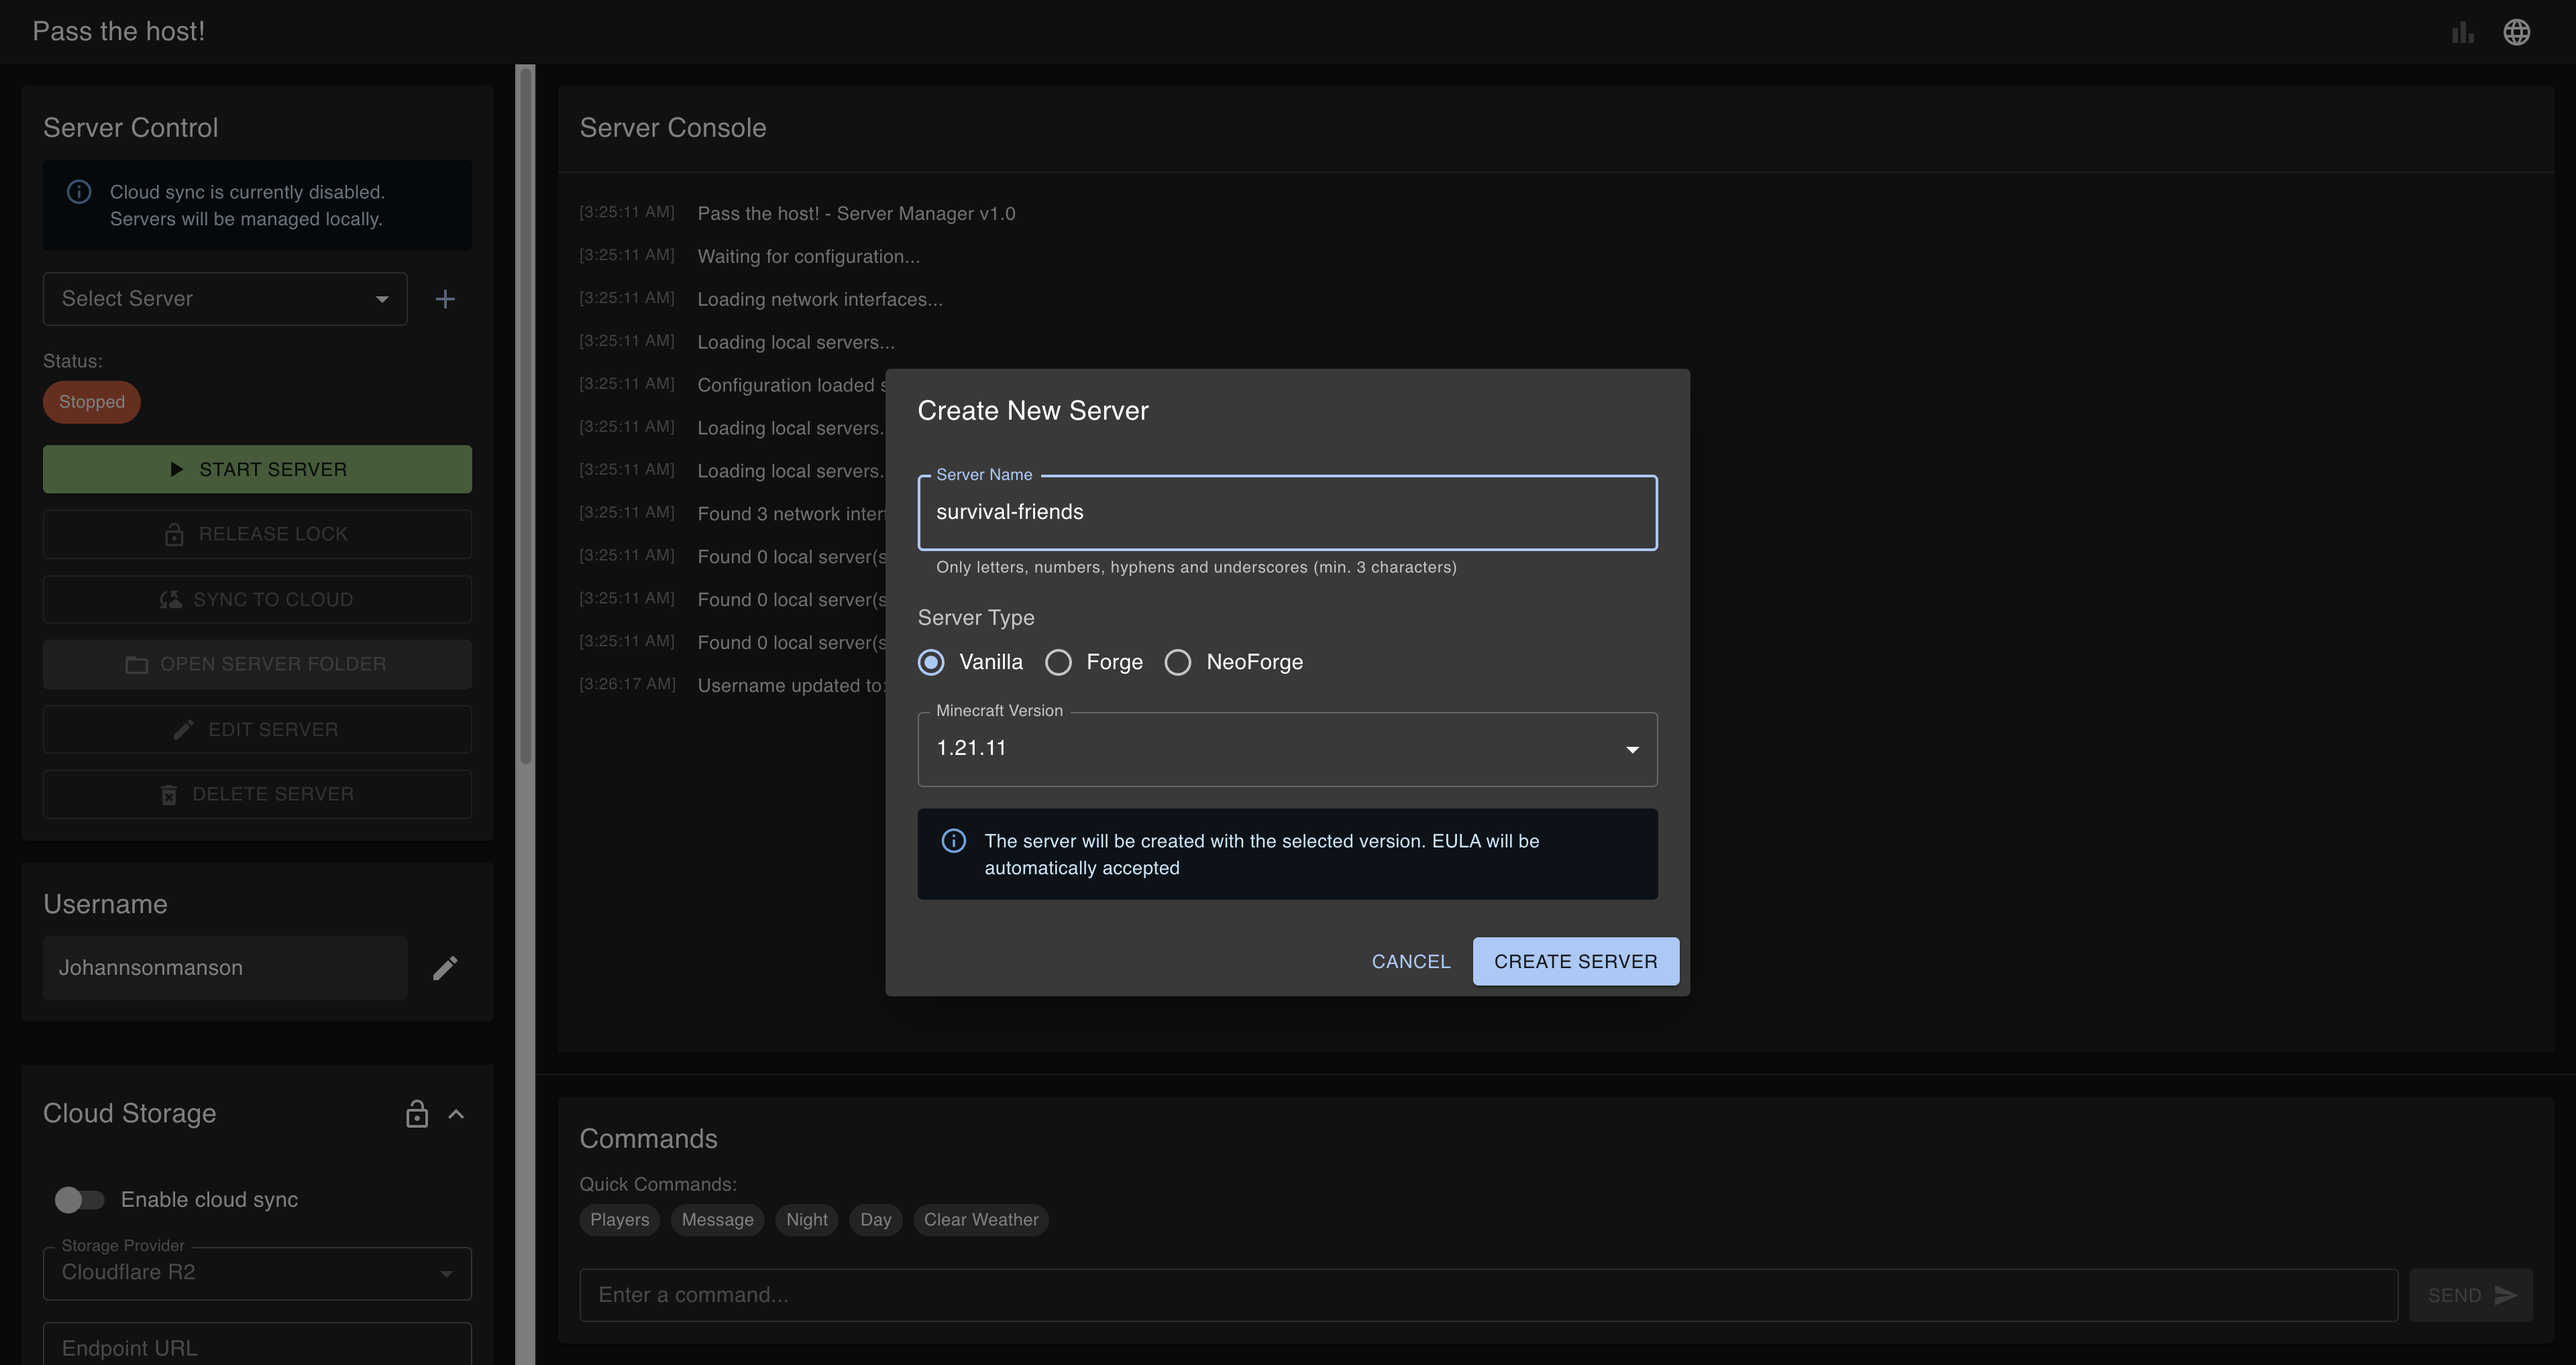
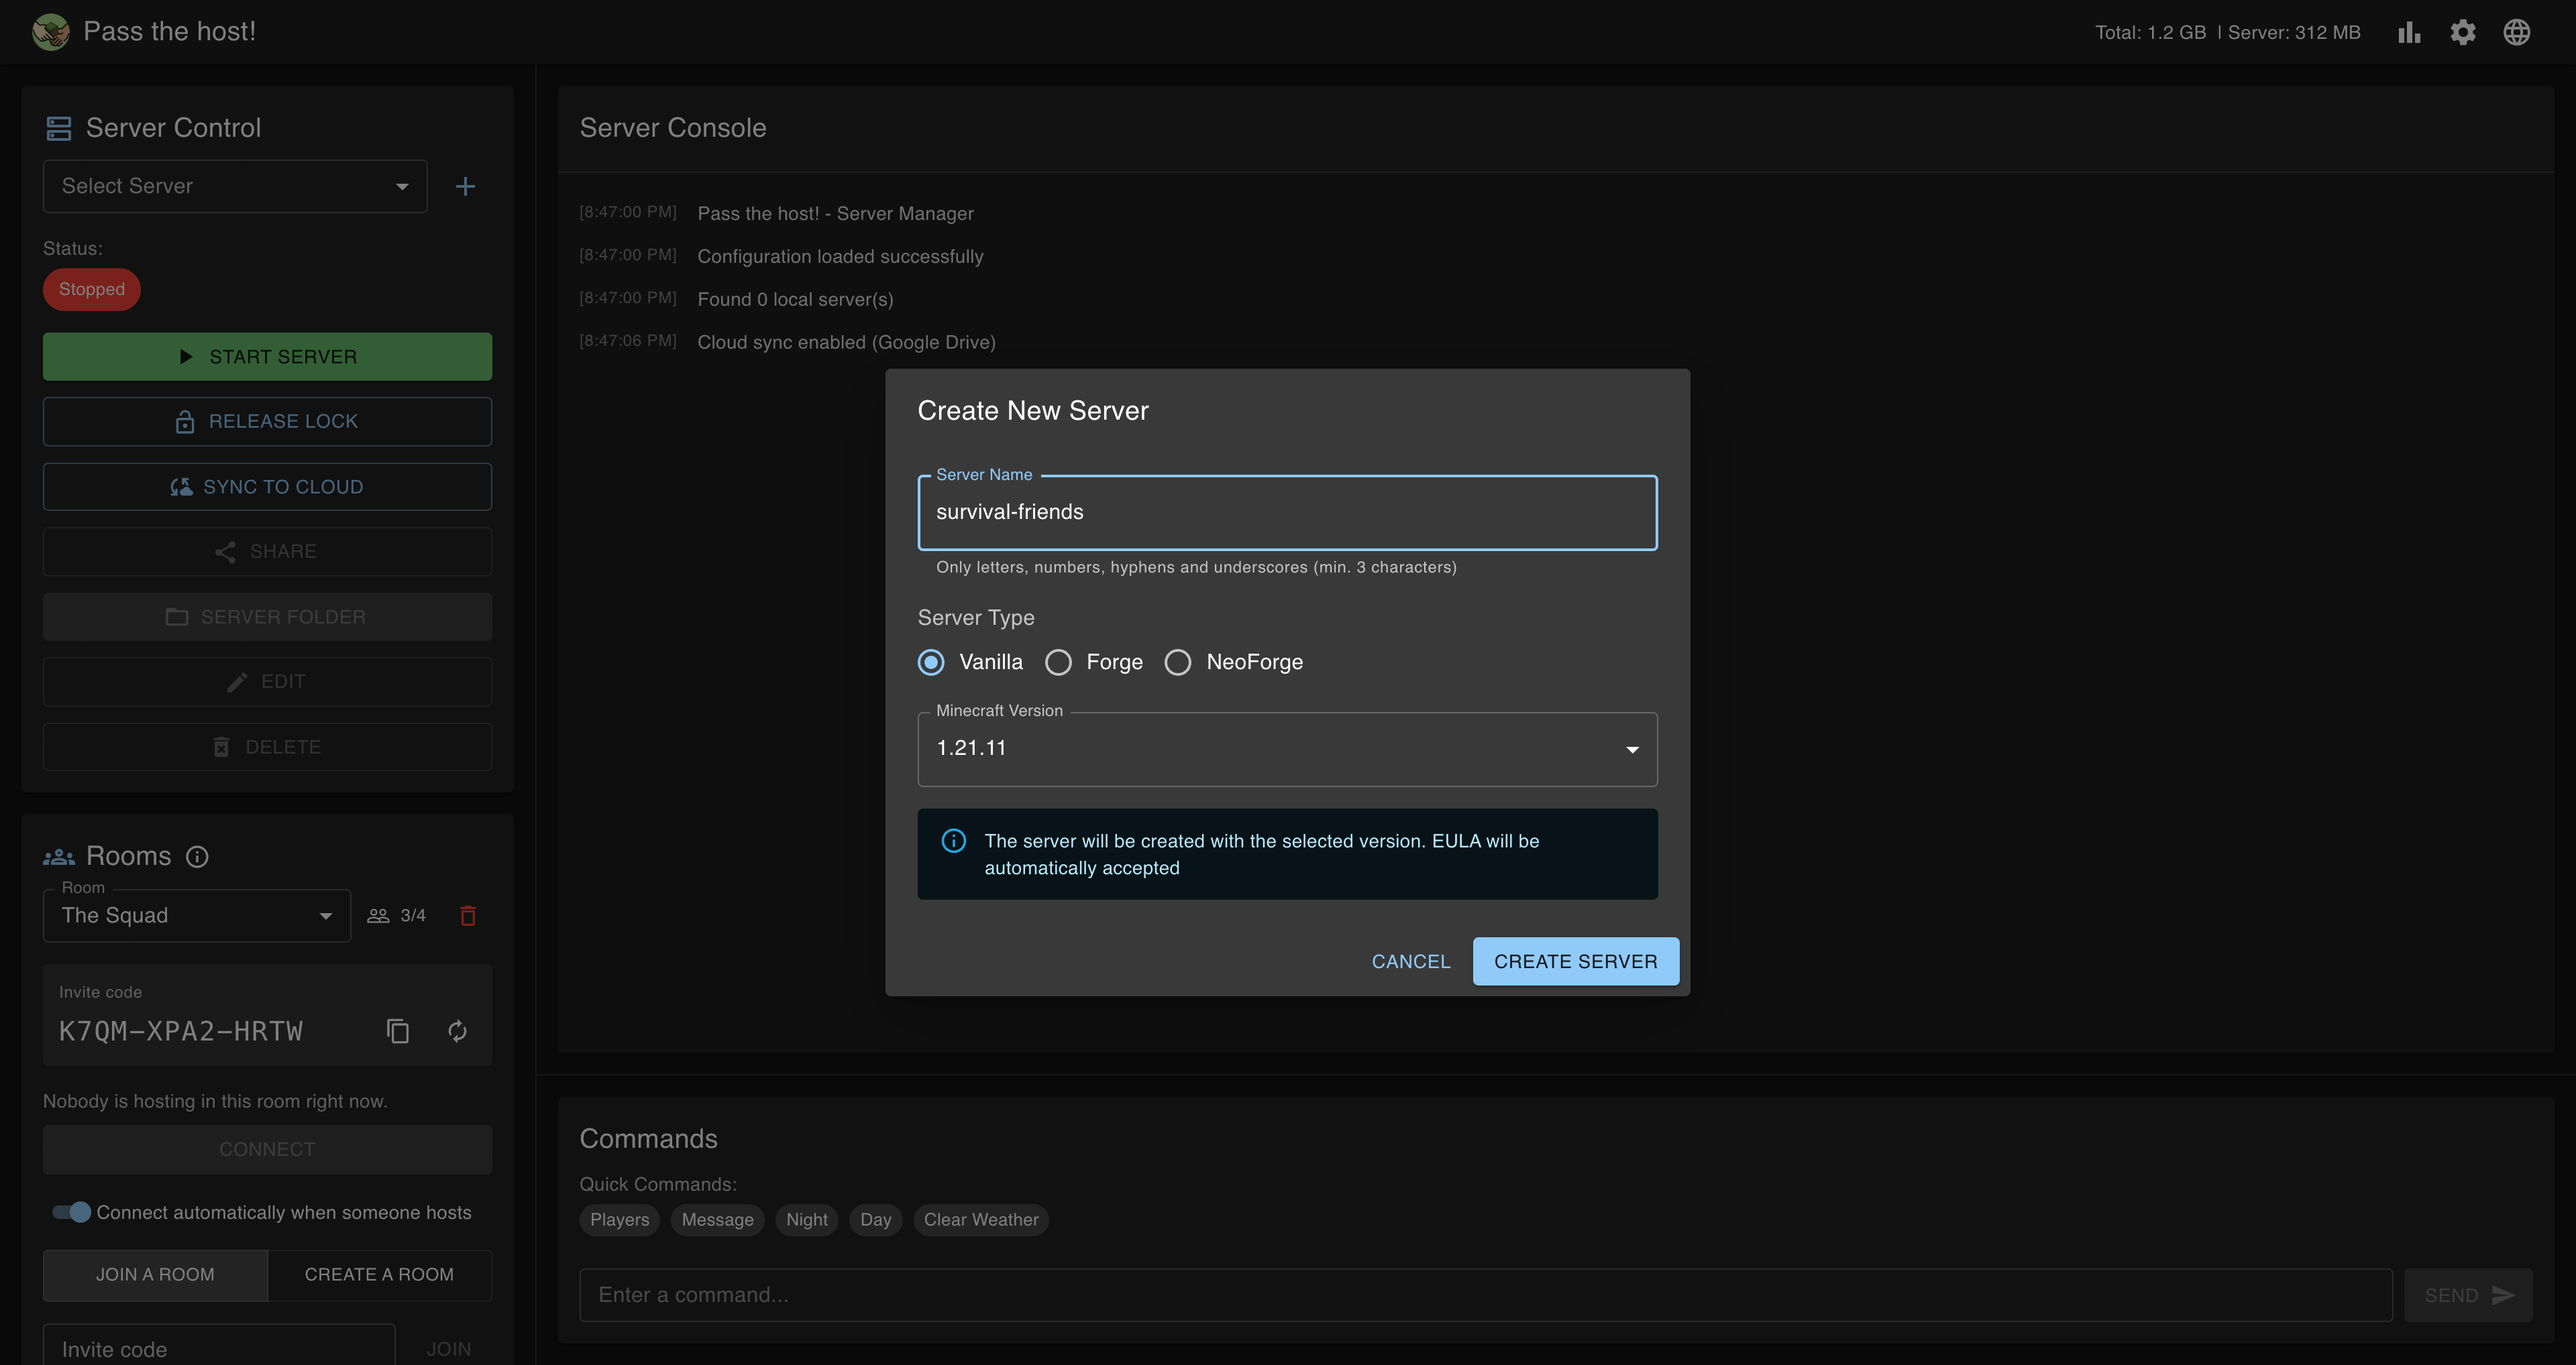
chore(site): explain rooms instead of external VPNs and refresh screenshots

diff --git a/site/app/dictionaries.ts b/site/app/dictionaries.ts
@@ -36,7 +36,7 @@ const es = {
     allDownloads: "Todas las descargas",
     downloadCount: "{n} descargas",
     screenshotAlt:
-      "Pantalla principal de Pass the host con el control del servidor y la consola",
+      "Pantalla principal de Pass the host con el control del servidor, las salas y la consola",
   },
   video: {
     title: "Míralo en acción",
@@ -61,7 +61,7 @@ const es = {
       },
     ],
     connectNote:
-      "Para que tus amigos se conecten, solo falta compartir tu IP o usar una VPN como Hamachi, Radmin VPN, Tailscale o ZeroTier.",
+      "Tus amigos se conectan desde la misma app con una sala: sin abrir puertos, sin VPN y sin IP pública.",
   },
   features: {
     title: "Todo lo que necesitas para hostear",
@@ -119,7 +119,7 @@ const es = {
       },
       {
         q: "¿Cómo se conectan mis amigos al servidor?",
-        a: "Quien hostea comparte su IP pública (abriendo el puerto 25565 en su router) o todos se unen a una misma VPN, como Hamachi, Radmin VPN, Tailscale o ZeroTier, y se conectan a la IP que esa VPN le asigna al host.",
+        a: "Con las salas de la app. Crea una sala y comparte su código de invitación; cuando alguien de la sala inicia el servidor, los demás pulsan Conectarse y la app abre un túnel directo a su computador. En Minecraft solo agregan el servidor localhost:25565. No hace falta abrir puertos, usar VPN ni tener IP pública.",
       },
       {
         q: "¿Qué pasa si dos personas intentan abrir el servidor al mismo tiempo?",
@@ -226,7 +226,7 @@ const en: typeof es = {
     allDownloads: "All downloads",
     downloadCount: "{n} downloads",
     screenshotAlt:
-      "Pass the host main screen with the server controls and the console",
+      "Pass the host main screen with the server controls, rooms and the console",
   },
   video: {
     title: "See it in action",
@@ -251,7 +251,7 @@ const en: typeof es = {
       },
     ],
     connectNote:
-      "For your friends to join, just share your IP or use a VPN such as Hamachi, Radmin VPN, Tailscale or ZeroTier.",
+      "Your friends join from the app itself with a room: no port forwarding, no VPN, no public IP.",
   },
   features: {
     title: "Everything you need to host",
@@ -309,7 +309,7 @@ const en: typeof es = {
       },
       {
         q: "How do my friends connect to the server?",
-        a: "The host shares their public IP (forwarding port 25565 on their router), or everyone joins the same VPN, such as Hamachi, Radmin VPN, Tailscale or ZeroTier, and connects to the IP that VPN assigns to the host.",
+        a: "With the app's rooms. Create a room and share its invite code; when someone in the room starts the server, the others press Connect and the app opens a direct tunnel to their computer. In Minecraft they just add the server localhost:25565. No port forwarding, VPN or public IP needed.",
       },
       {
         q: "What happens if two people try to open the server at the same time?",
